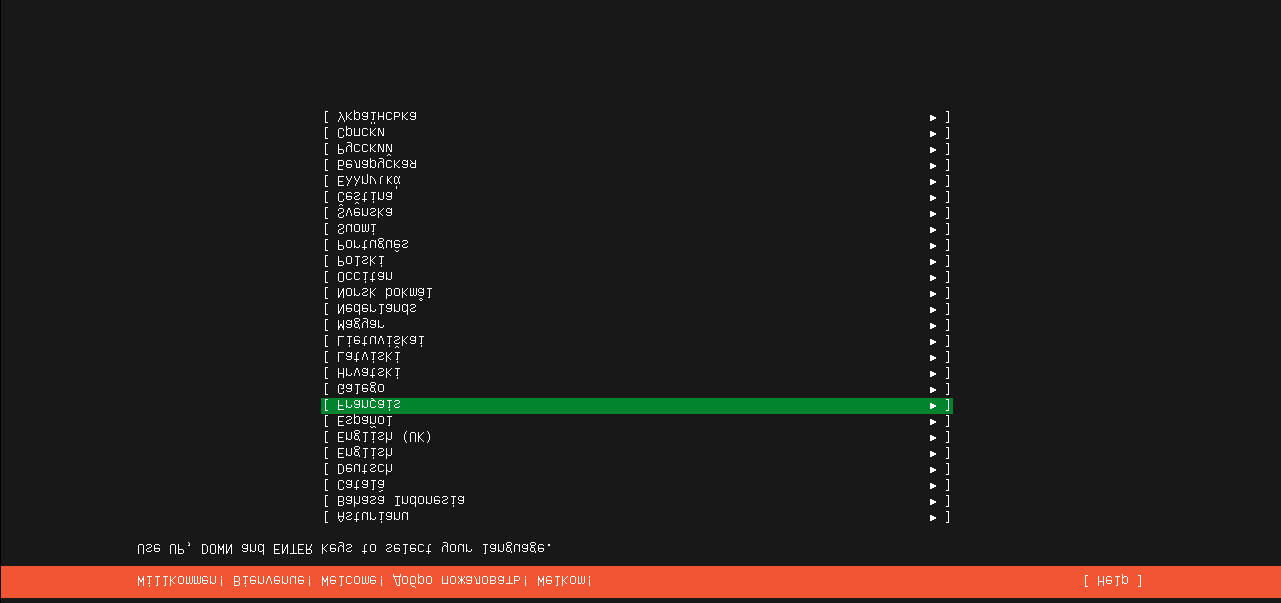
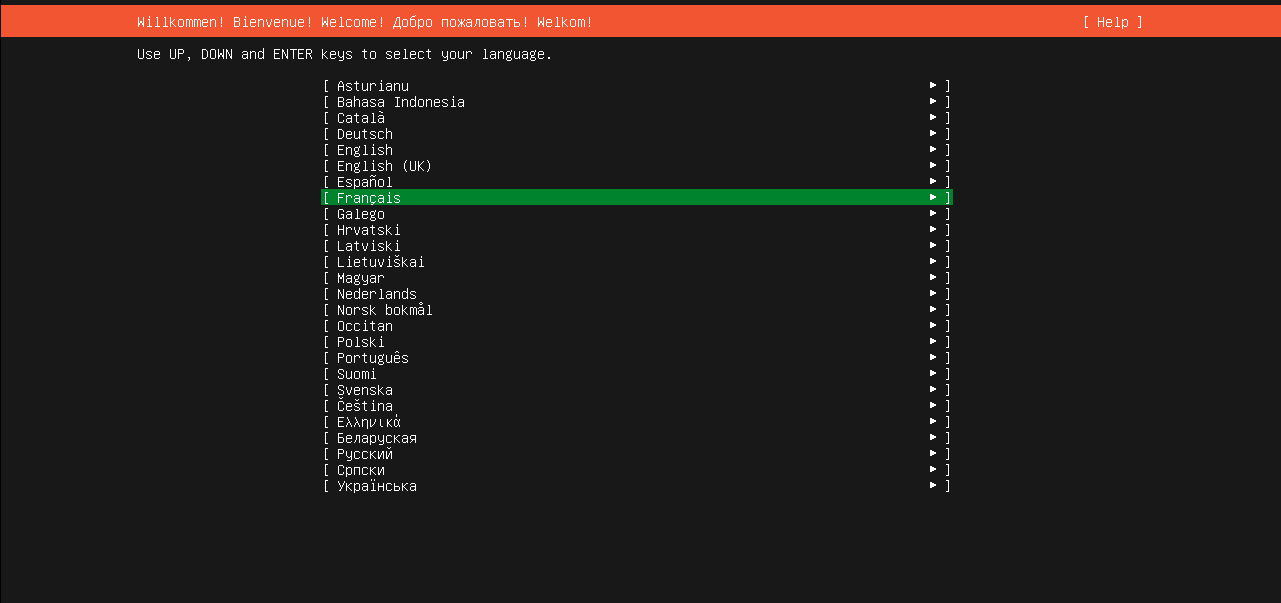
update au readme

Changed region(s): [[0.0, 0.8955, 1.0, 1.0], [0.2498, 0.1194, 0.7494, 0.8657], [0.0, 0.0, 1.0, 0.0896]]

diff --git a/README.md b/README.md
@@ -82,3 +82,76 @@ Si vous avez bien configuré le BIOS vous allez être dirigé automatiquement à
 
 ![](screenshot/Ubuntuserver/1.png)
 
+Appuyez sur "Entrée" pour continuer. Choisissez la première option.
+
+![](screenshot/Ubuntuserver/2.png)
+
+Choisissez la langue de votre choix. Anglais est un bon choix aussi.
+
+![](screenshot/Ubuntuserver/3.png)
+
+1. Vous pouvez appuyer sur "Identifier le clavier" et l'installeur saura trouver votre clavier de choix.
+2. Terminé
+
+![](screenshot/Ubuntuserver/4.png)
+
+1. Ubuntu Server
+2. Terminé
+
+![](screenshot/Ubuntuserver/5.png)
+
+Choisissez votre bonne interface réseau.
+1. Terminé
+
+![](screenshot/Ubuntuserver/6.png)
+
+Pas besoin de gérer ça pour ce qu'on va faire.
+1. Terminé
+
+![](screenshot/Ubuntuserver/7.png)
+
+J'ai laissé l'adresse du mirroir par défaut.
+1. Terminé
+
+![](screenshot/Ubuntuserver/8.png)
+
+1. Choisissez le disque que vous voulez.
+2. Laissez l'option LVM group de coché
+3. Terminé
+
+![](screenshot/Ubuntuserver/9.png)
+
+Vérifiez que tout est OK.
+1. Terminé
+
+![](screenshot/Ubuntuserver/10.png)
+
+Le pop-up vous annonce que l'installation va commencer.
+1. Continuer
+
+![](screenshot/Ubuntuserver/11.png)
+
+1. N'oubliez pas ces informations.
+2. Terminé
+
+![](screenshot/Ubuntuserver/12.png)
+
+On ne payera pas pour Ubuntu Pro alors cochez "Skip for now" et continuez.
+
+![](screenshot/Ubuntuserver/13.png)
+
+### Cette étape est importante, il faut absolument utiliser le serveur openSSH pour facilement se connecter au serveur Ubuntu à partir de la machine client ###
+
+1. Assurez-vous que l'option est coché.
+2. Terminé
+
+![](screenshot/Ubuntuserver/14.png)
+
+Bravo, Ubuntu est installé!
+1. Redémarrer maintenant
+
+![](screenshot/Ubuntuserver/15.png)
+
+N'oubliez pas de retirer votre clé USB sinon vous allez avoir cette erreur.
+
+Voici donc comment installer Manjaro OS sur un poste Client et Ubuntu Server sur une machine serveur.
